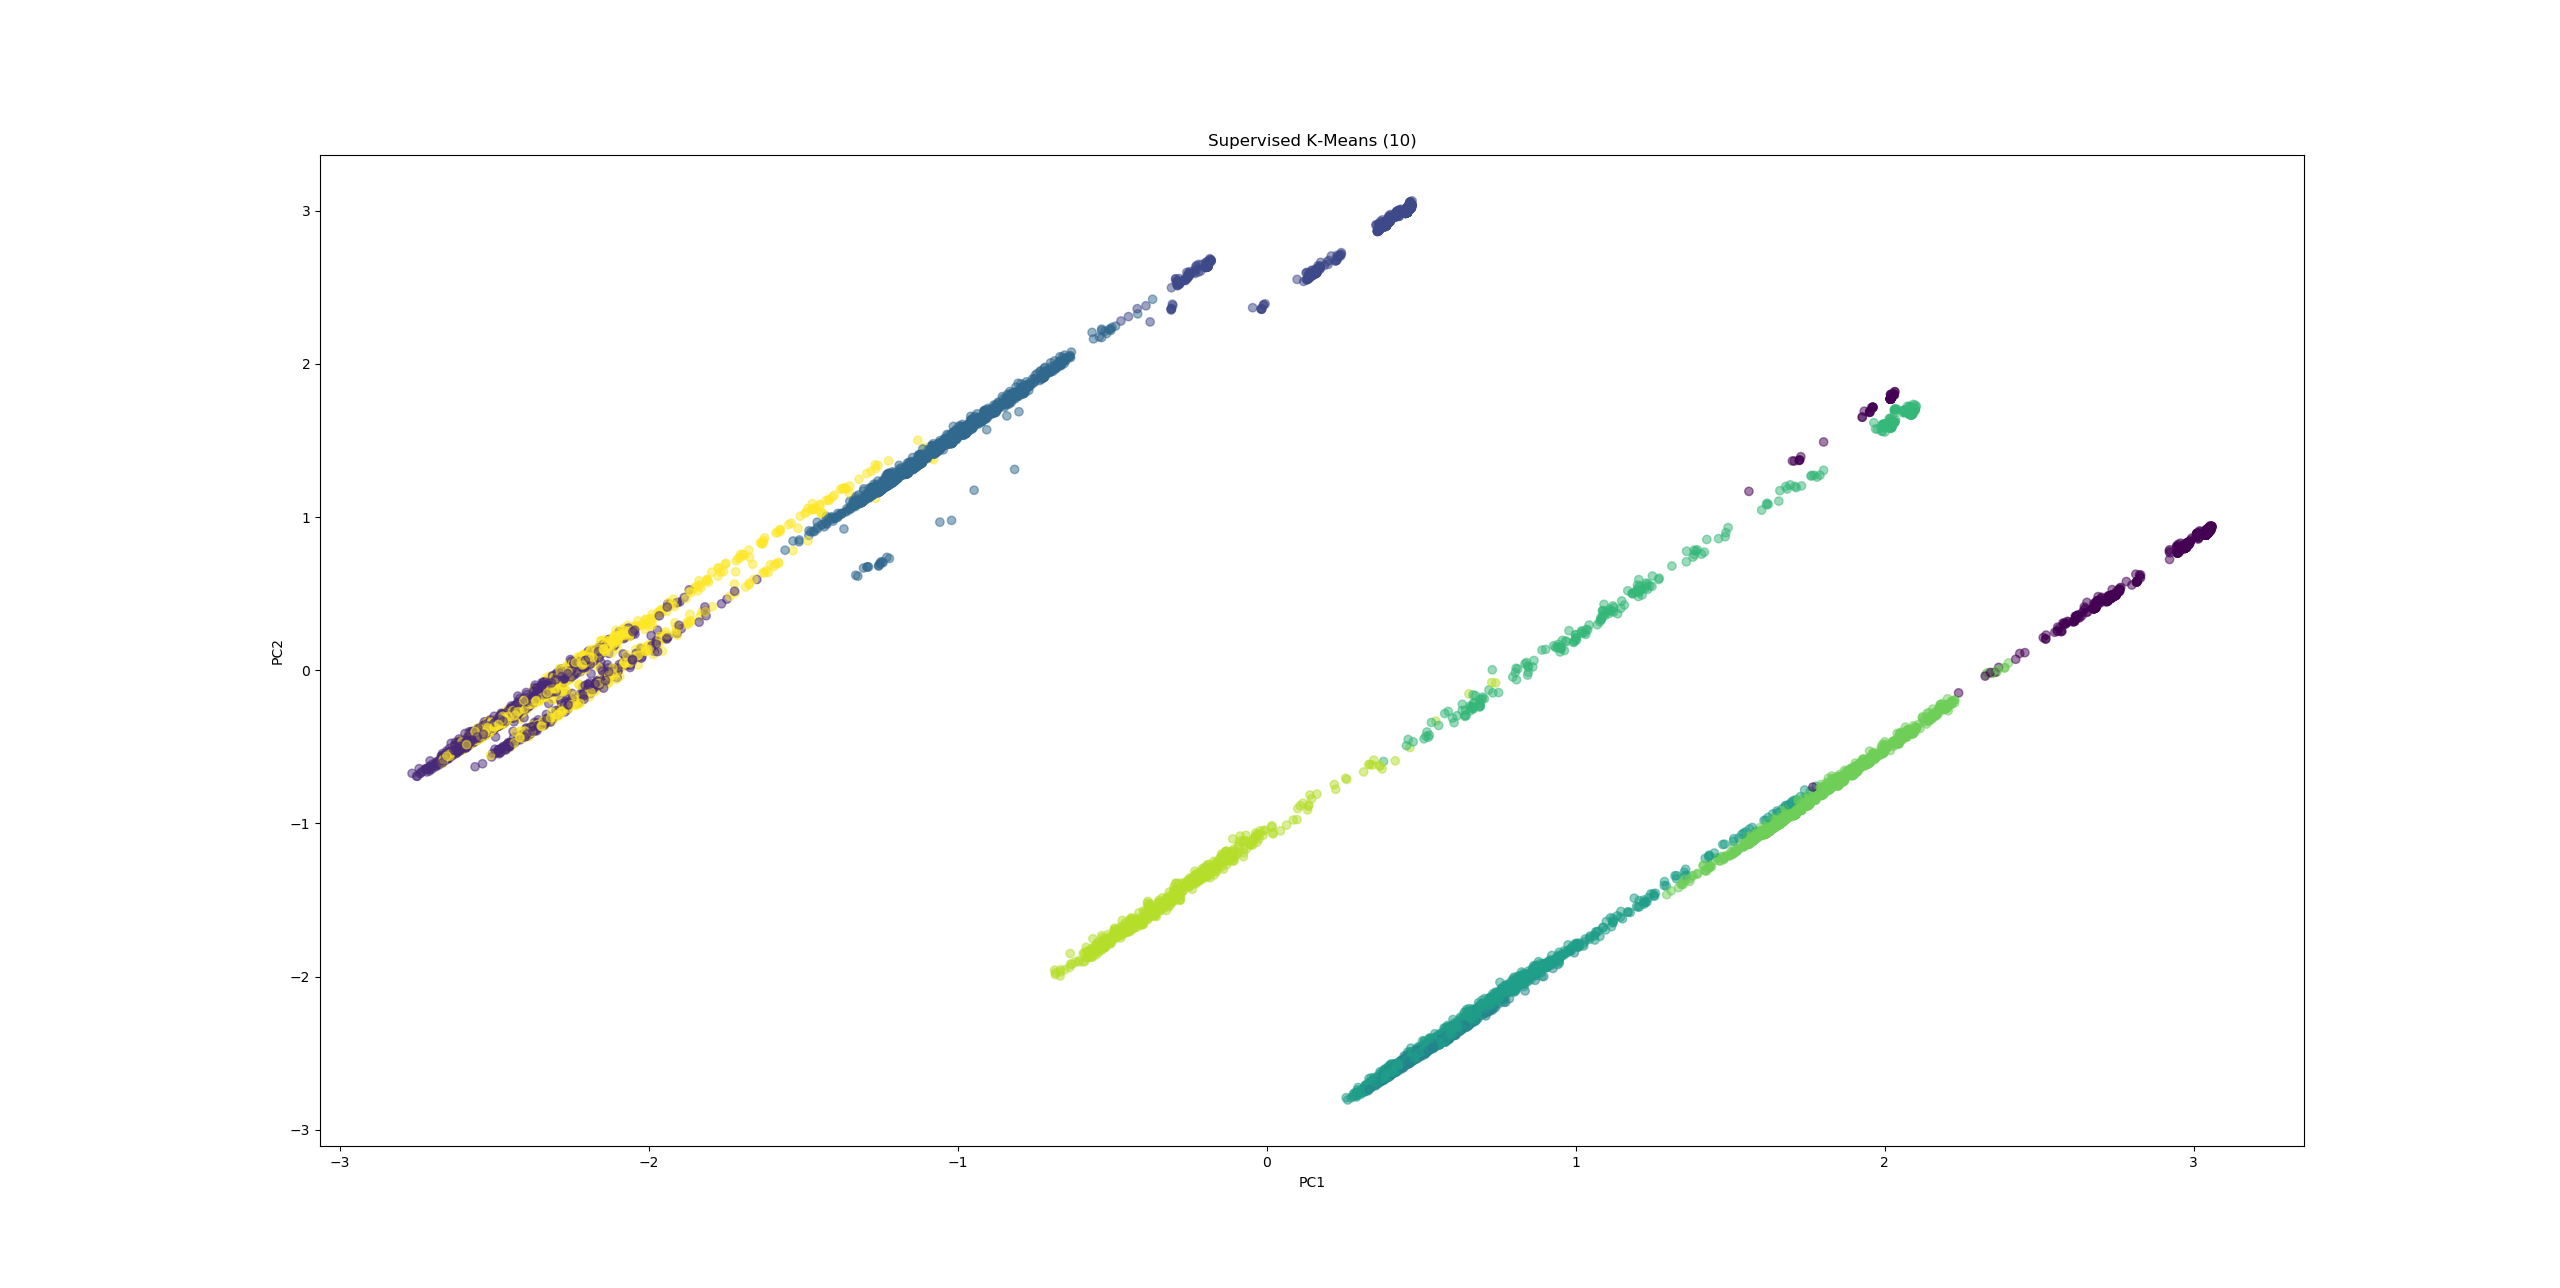
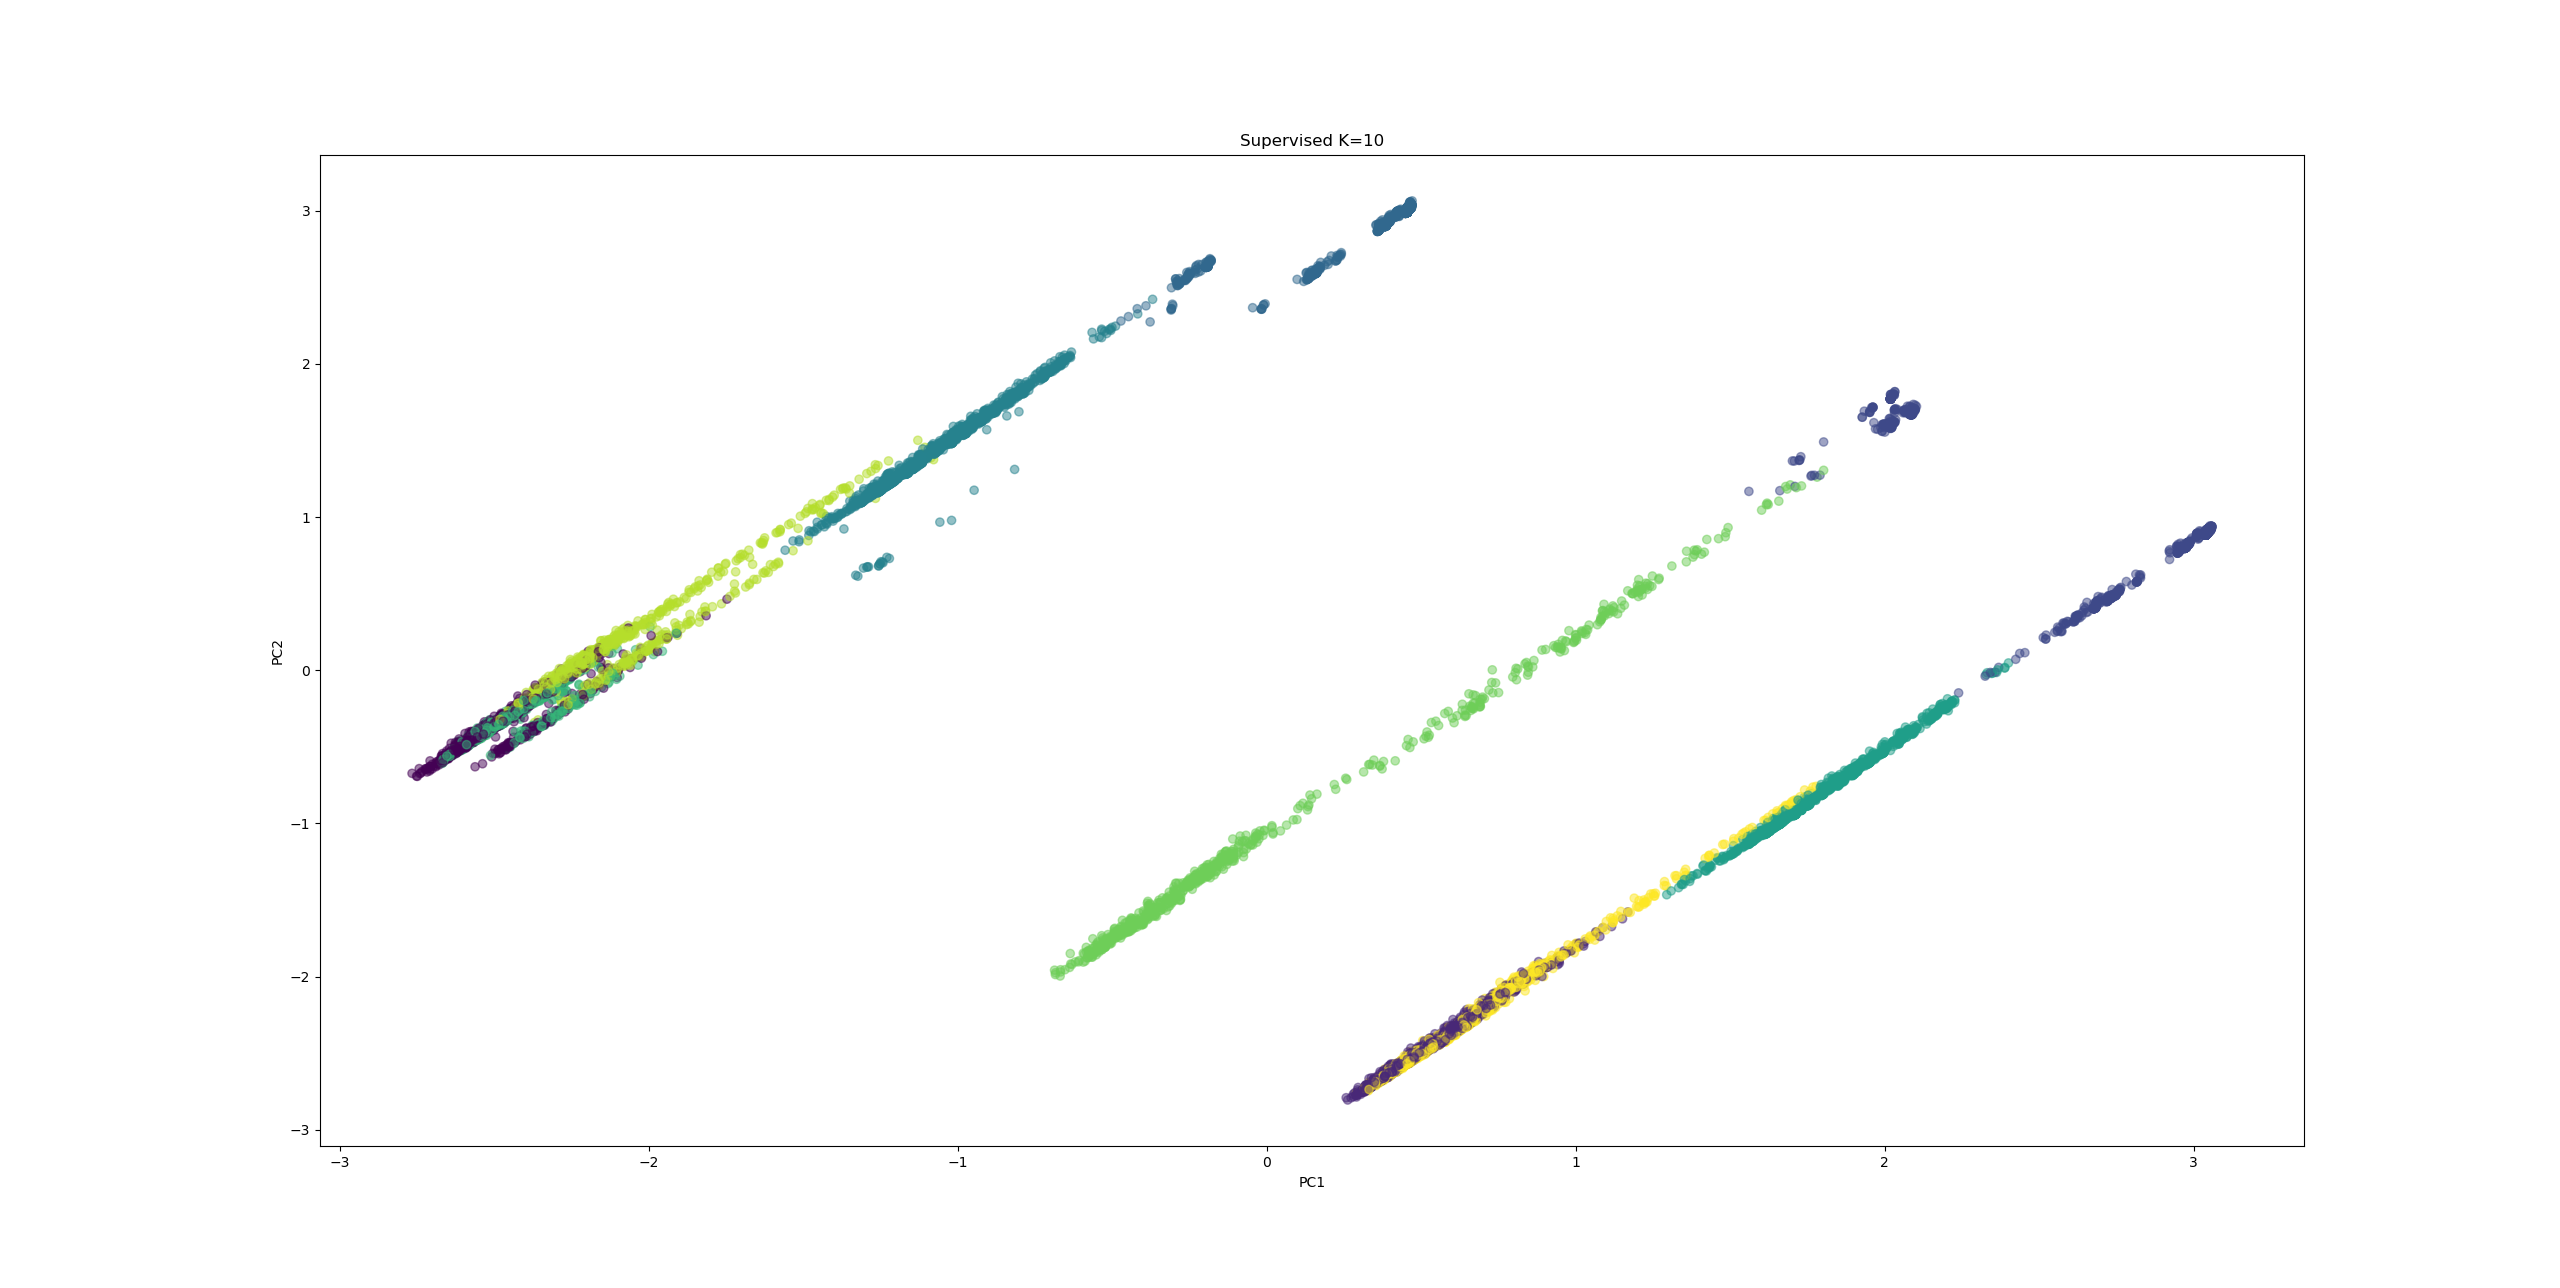
a

diff --git a/kmeans.py b/kmeans.py
@@ -170,20 +170,29 @@ if __name__ == '__main__':
 
     # Write directly to experiments:
     # n clusters:
-    kmeans_exp1 = KMeans(n_clusters = 2)
-    print(kmeans_exp1.inertia_)
-    print(Counter(kmeans_exp1.labels_))
-    visualization(data = mms_data, similarity = 3, corr_mat = 1, cluster_labels = kmeans_exp1.labels_, title = 'Supervised K=2')
+    kmeans = KMeans(n_clusters = 2).fit(mms_full_data)
+    print(kmeans.inertia_ )
+    print(Counter(kmeans.labels_))
+    #visualization(data = mms_data, similarity = 3, corr_mat = 1, cluster_labels = kmeans_exp1.labels_, title = 'Unsupervised K=2')
+    #[homog, complete, v_measure], cont_mat
+    print(evaluate_external(target_data, clusters_to_labels_voting(mms_full_data, kmeans.labels_, target_data, target)))
 
-    kmeans_exp2 = KMeans(n_clusters = 10)
-    print(kmeans_exp2.inertia_)
-    print(Counter(kmeans_exp2.labels_))
-    visualization(data = mms_data, similarity = 3, corr_mat = 1, cluster_labels = kmeans_exp2.labels_, title = 'Supervised K=10')
+    kmeans = KMeans(n_clusters = 10).fit(mms_full_data)
+    print(kmeans.inertia_)
+    print(Counter(kmeans.labels_))
+    #visualization(data = mms_data, similarity = 3, corr_mat = 1, cluster_labels = kmeans.labels_, title = 'Unsupervised K=10')
+    print(evaluate_external(target_data, clusters_to_labels_voting(mms_full_data, kmeans.labels_, target_data, target)))
 
-    kmeans_exp3 = KMeans(n_clusters = 20)
-    print(kmeans_exp3.inertia_)
-    print(Counter(kmeans_exp3.labels_))
-    visualization(data = mms_data, similarity = 3, corr_mat = 1, cluster_labels = kmeans_exp3.labels_, title = 'Supervised K=20')
+    kmeans = KMeans(n_clusters = 20).fit(mms_full_data)
+    print(kmeans.inertia_)
+    print(Counter(kmeans.labels_))
+    #visualization(data = mms_data, similarity = 3, corr_mat = 1, cluster_labels = kmeans_exp3.labels_, title = 'Unsupervised K=20')
+    print(evaluate_external(target_data, clusters_to_labels_voting(mms_full_data, kmeans.labels_, target_data, target)))
+
+    print('exiting')
+    sys.exit()
+    print('didnt get here')
+
 
     # Run the experiments
     print('run the experiments')
